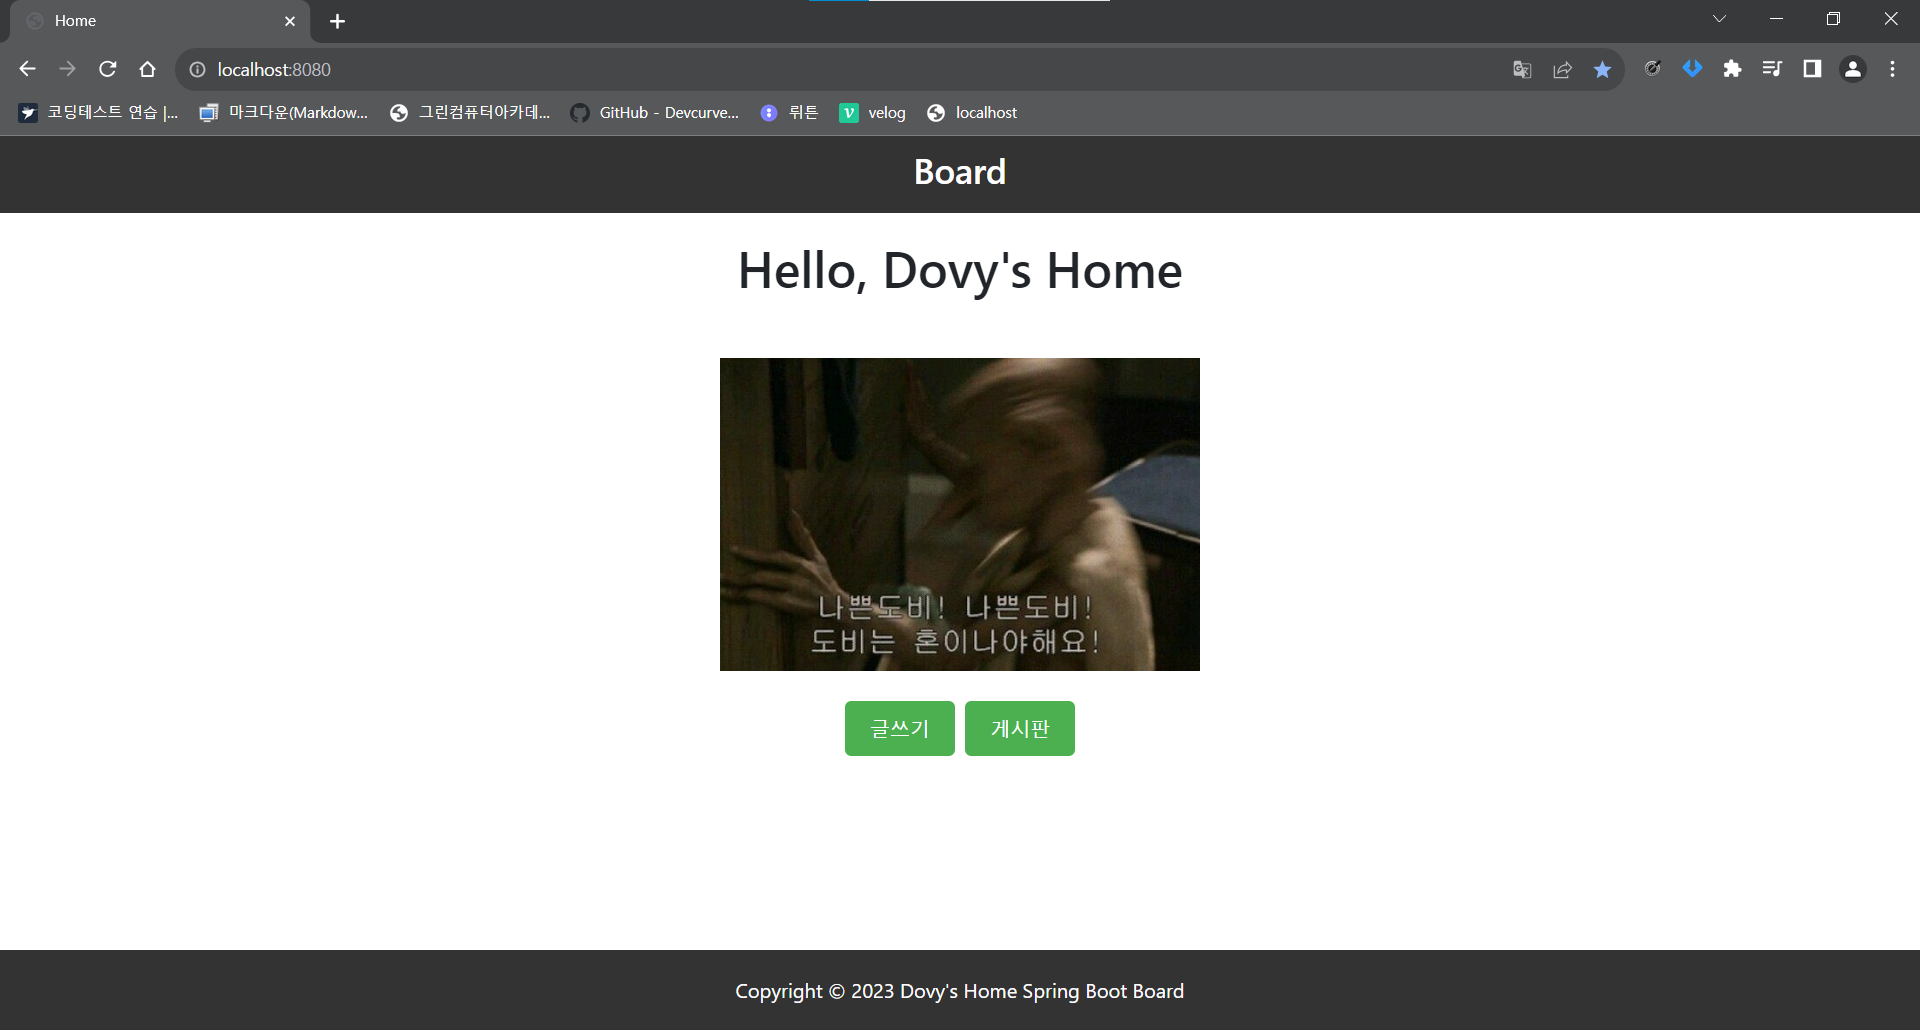
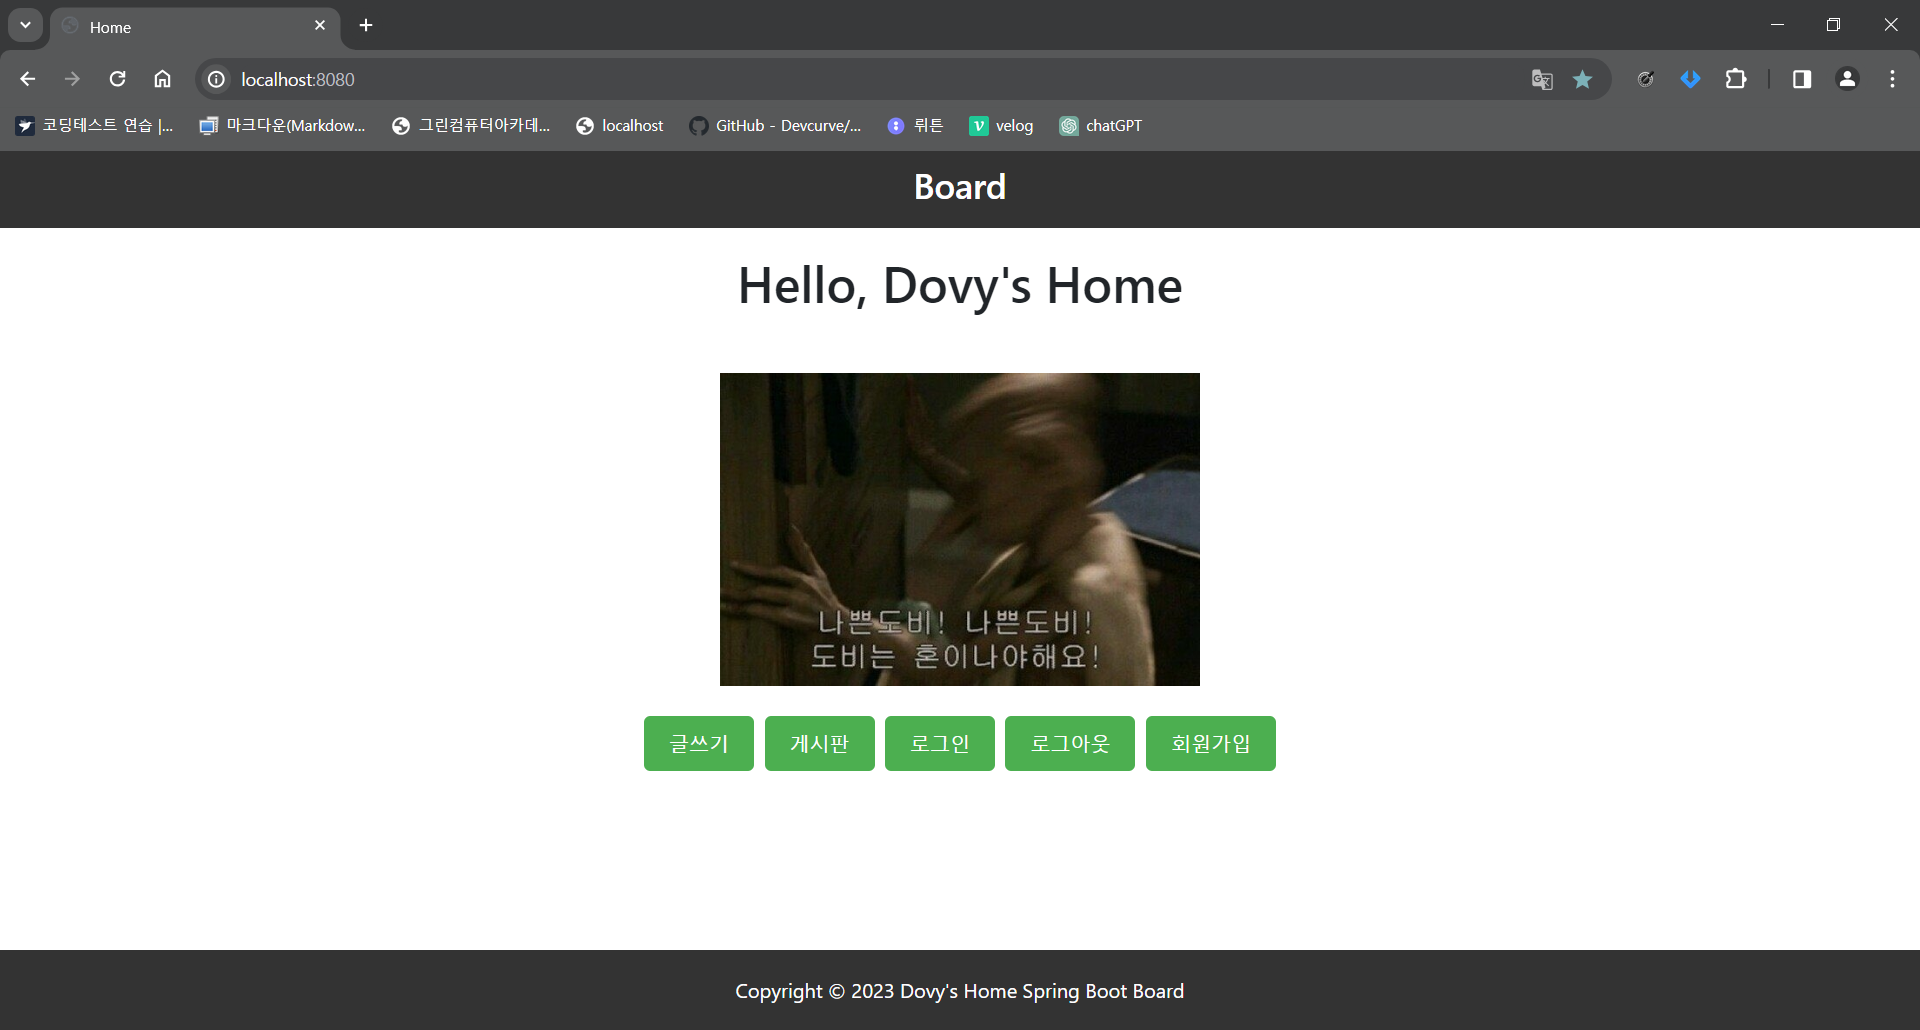
0107
사진 수정

diff --git a/Board/src/main/java/com/example/demo/board/BoardController.java b/Board/src/main/java/com/example/demo/board/BoardController.java
@@ -29,7 +29,7 @@ public class BoardController {
 
     @GetMapping("/create")
     public String create() {
-        return "create";
+        return "create"; // create.html 이동
     }
 
     // 입력 받은 데이터, 글 저장
@@ -56,7 +56,7 @@ public class BoardController {
         int startPage = (int)Math.ceil((double)pageable.getPageNumber() / blockLimit - 1) * blockLimit + 1; // 1
         int endPage = (startPage+ blockLimit - 1) < boards.getTotalPages() ? (startPage + blockLimit -1) : boards.getTotalPages(); // 3
 
-        // 뷰에 전달
+        // 뷰에 데이터 전달
         model.addAttribute("boardList", boards);
         model.addAttribute("startPage", startPage);
         model.addAttribute("endPage", endPage);
@@ -83,17 +83,20 @@ public class BoardController {
     }
 
     // 특정 게시글의 상세 정보를 보여주는 페이지로 이동
-    @GetMapping("/{id}")
+    @GetMapping("/{id}") // URL에서 게시글의 ID를 가져와 저장     // 페이징 정보를 담고 있는 객체, 기본 페이지 번호를 1로 설정
     public String paging(@PathVariable Long id, Model model, @PageableDefault(page = 1) Pageable pageable){
+        // 해당 ID의 게시글 정보를 BoardDto 객체에 저장
         BoardDto boardDto = boardService.findById(id);
 
-        model.addAttribute("board", boardDto);
-        model.addAttribute("page", pageable.getPageNumber());
+        // 뷰에 데이터 전달
+        model.addAttribute("board", boardDto); // boardDto -> board(view)
+        model.addAttribute("page", pageable.getPageNumber()); // 현재 페이지 번호 -> page(view)
 
+        // 해당 ID의 게시글에 첨부된 파일 정보를 가져와 List<BoardFile> 객체에 저장
         List<BoardFile> byBoardFiles = fileRepository.findByBoardId(id);
-        model.addAttribute("files",byBoardFiles);
+        model.addAttribute("files",byBoardFiles); // byBoardFiles -> files(view)
 
-        return "detail";
+        return "detail"; // detail 뷰 반환
     }
 
     // 게시글 삭제

diff --git a/Board/src/main/java/com/example/demo/comment/CommentDto.java b/Board/src/main/java/com/example/demo/comment/CommentDto.java
@@ -14,7 +14,7 @@ public class CommentDto {
 
     private Long id;
 
-    private String writer;
+    private String nickName; // -> 작성자 로 바꾸기
 
     private String contents;
 
@@ -27,7 +27,7 @@ public class CommentDto {
     public Comment toEntity(Board board, User user){
         return Comment.builder()
                 .id(id)
-                .writer(writer)
+                .nickName(user.getNickname())
                 .contents(contents)
                 .board(board)
                 .createTime(LocalDateTime.now())
@@ -39,7 +39,7 @@ public class CommentDto {
     public static CommentDto fromEntity(Comment comment){
         return new CommentDto(
                 comment.getId(),
-                comment.getWriter(),
+                comment.getNickName(),
                 comment.getContents(),
                 comment.getBoard().getId(),
                 comment.getCreateTime(),

diff --git a/Board/src/main/java/com/example/demo/comment/Comment.java b/Board/src/main/java/com/example/demo/comment/Comment.java
@@ -29,7 +29,7 @@ public class Comment {
     @JoinColumn(name = "user_id")
     private User user;
 
-    private String writer;
+    private String nickName;
 
     @Column(nullable = false)
     private String contents;
@@ -37,9 +37,9 @@ public class Comment {
     private LocalDateTime createTime;
 
     @Builder
-    public Comment(Long id, String writer, String contents, Board board, LocalDateTime createTime, User user){
+    public Comment(Long id, String nickName, String contents, Board board, LocalDateTime createTime, User user){
         this.id = id;
-        this.writer = writer;
+        this.nickName = nickName;
         this.contents = contents;
         this.board = board;
         this.createTime = createTime;

diff --git a/Board/src/main/java/com/example/demo/board/BoardService.java b/Board/src/main/java/com/example/demo/board/BoardService.java
@@ -32,8 +32,8 @@ public class BoardService {
     private final BoardRepository boardRepository;
     private final FileRepository fileRepository;
     private final UserRepository userRepository;
-    private final String filePath = "C:/Users/G/Desktop/portfolio_board/boardFile/";
-    //private final String filePath = "C:/Users/김가영/Desktop/portfolio_board/Board/boardFile/";
+    //private final String filePath = "C:/Users/G/Desktop/portfolio_board/boardFile/";
+    private final String filePath = "C:/Users/김가영/Desktop/portfolio_board/Board/boardFile/";
 
     // 가져온 데이터 DB에 저장
     @Transactional

diff --git a/README.md b/README.md
@@ -7,7 +7,8 @@ JDK 11
 mysql 8.0.35  
 Lombok  
 Spring Data JPA
-Spring Web   
+Spring Web
+Spring Security   
 Thymeleaf  
 aplication.yml
 
@@ -84,7 +85,15 @@ aplication.yml
 
 ## 향후 업데이트 예정 기능
 1. 토큰 만료시 새 토큰 발급
-2.
+
+---
+
+## 로그인
+#### v2.7.2 (2023.12.26)
+1. 로그인 기능 추가
+2. 게시판, 댓글 CRUD 연동
+
+---
 
 #### v1.0.0 (2023.11.21)
 1. [추가] 게시판 생성(/board/save)
@@ -122,9 +131,3 @@ aplication.yml
 2. [수정] detail 작성자 <-> 내용 바뀌어서 출력
 3. [추가] title, contents 필드 nullable = false
 4. [추가] 파일 다운로드 버튼, 파일 프리뷰
-
----
-## 로그인
-### v2.7.2 (2023.12.26)
-1. 로그인 기능 추가
-2. 게시판, 댓글 CRUD 연동
